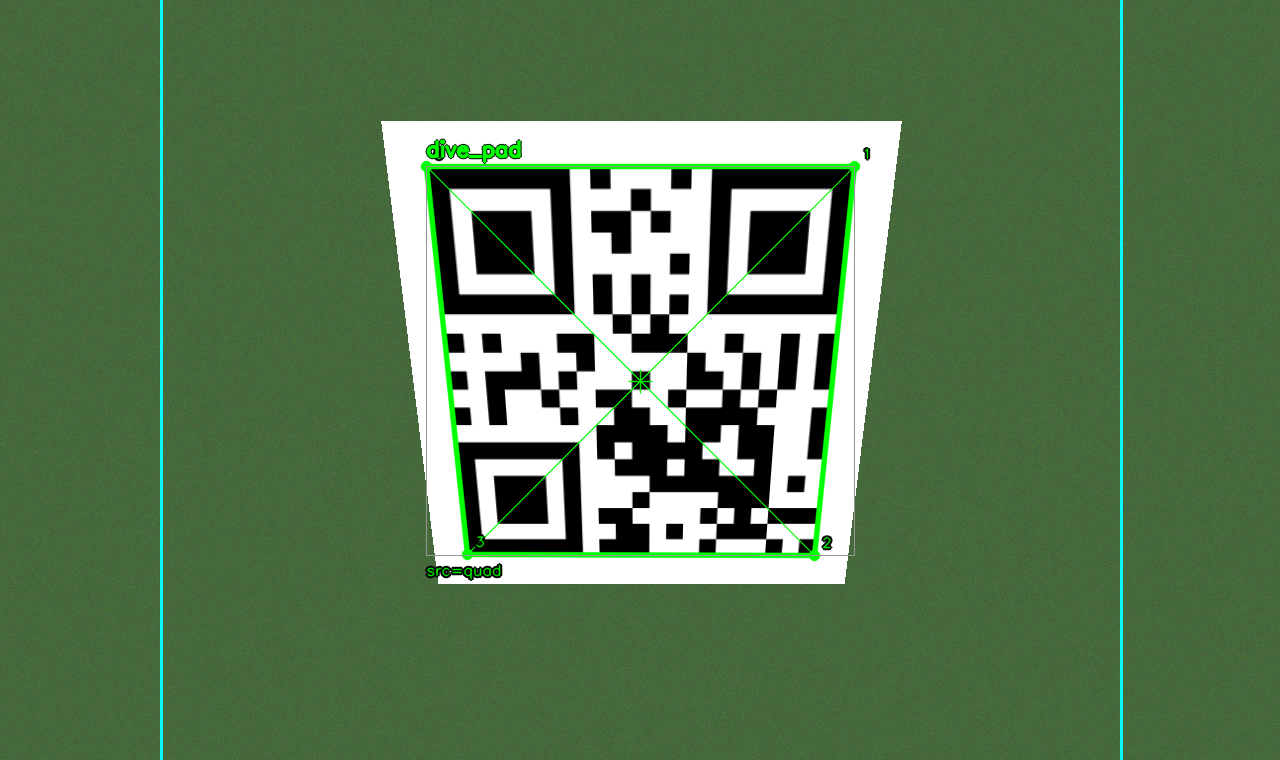
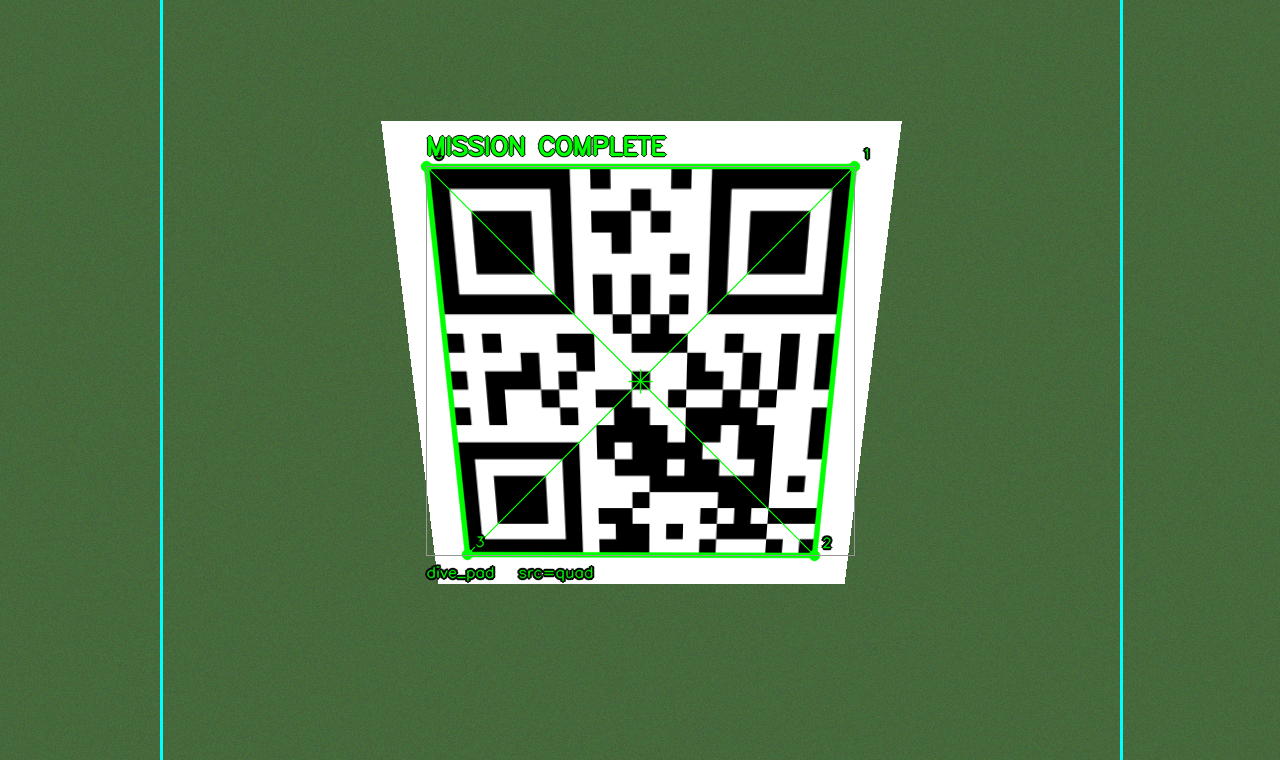
HUD headline shows status, not the raw QR text

Changed region(s): [[0.3125, 0.1513, 0.5312, 0.2118], [0.3125, 0.7263, 0.4688, 0.7868]]

diff --git a/processes/perception.py b/processes/perception.py
@@ -340,13 +340,25 @@ class PerceptionProcess(mp.Process):
         cv2.line(frame, (icx - 12, icy), (icx + 12, icy), color, 1, cv2.LINE_AA)
         cv2.line(frame, (icx, icy - 12), (icx, icy + 12), color, 1, cv2.LINE_AA)
 
-        etiket = "%s%s" % (data[:20], "" if in_av else "  [OUTSIDE AV]")
-        self._draw_text(frame, etiket, (x, y - 10), 0.7, color)
+        # Primary label is the STATUS, not the payload.
+        #
+        # The distinction it carries is the whole mission rule: decoding the
+        # QR is not enough, the code must lie ENTIRELY inside the target
+        # area. A frame that decodes a QR hanging over the edge looks like
+        # success and is not one. Printing the payload as the headline
+        # blurred that -- the text read the same either way.
+        status = "MISSION COMPLETE" if in_av else "DECODED - OUTSIDE TARGET AREA"
+        self._draw_text(frame, status, (x, y - 12), 0.8, color)
+
+        # The decoded payload stays, one line below and smaller. It is the
+        # value that goes into the mission packet, so it has to be visible
+        # for diagnosis -- just not as the headline.
+        #
         # Source tag: "quad" when the four corners were usable, "box" when
         # the fallback ran. Without it a degenerate detection looks exactly
         # like a good one in the recording.
-        self._draw_text(frame, "src=%s" % source, (x, y + bh + 20),
-                        0.5, color, thickness=1)
+        self._draw_text(frame, "%s   src=%s" % (data[:24], source),
+                        (x, y + bh + 22), 0.5, color, thickness=1)
 
     def _draw_hud(self, frame, w: int, h: int, fps: float) -> None:
         mode_str   = f"MOD: {self._current_mode().name}"
